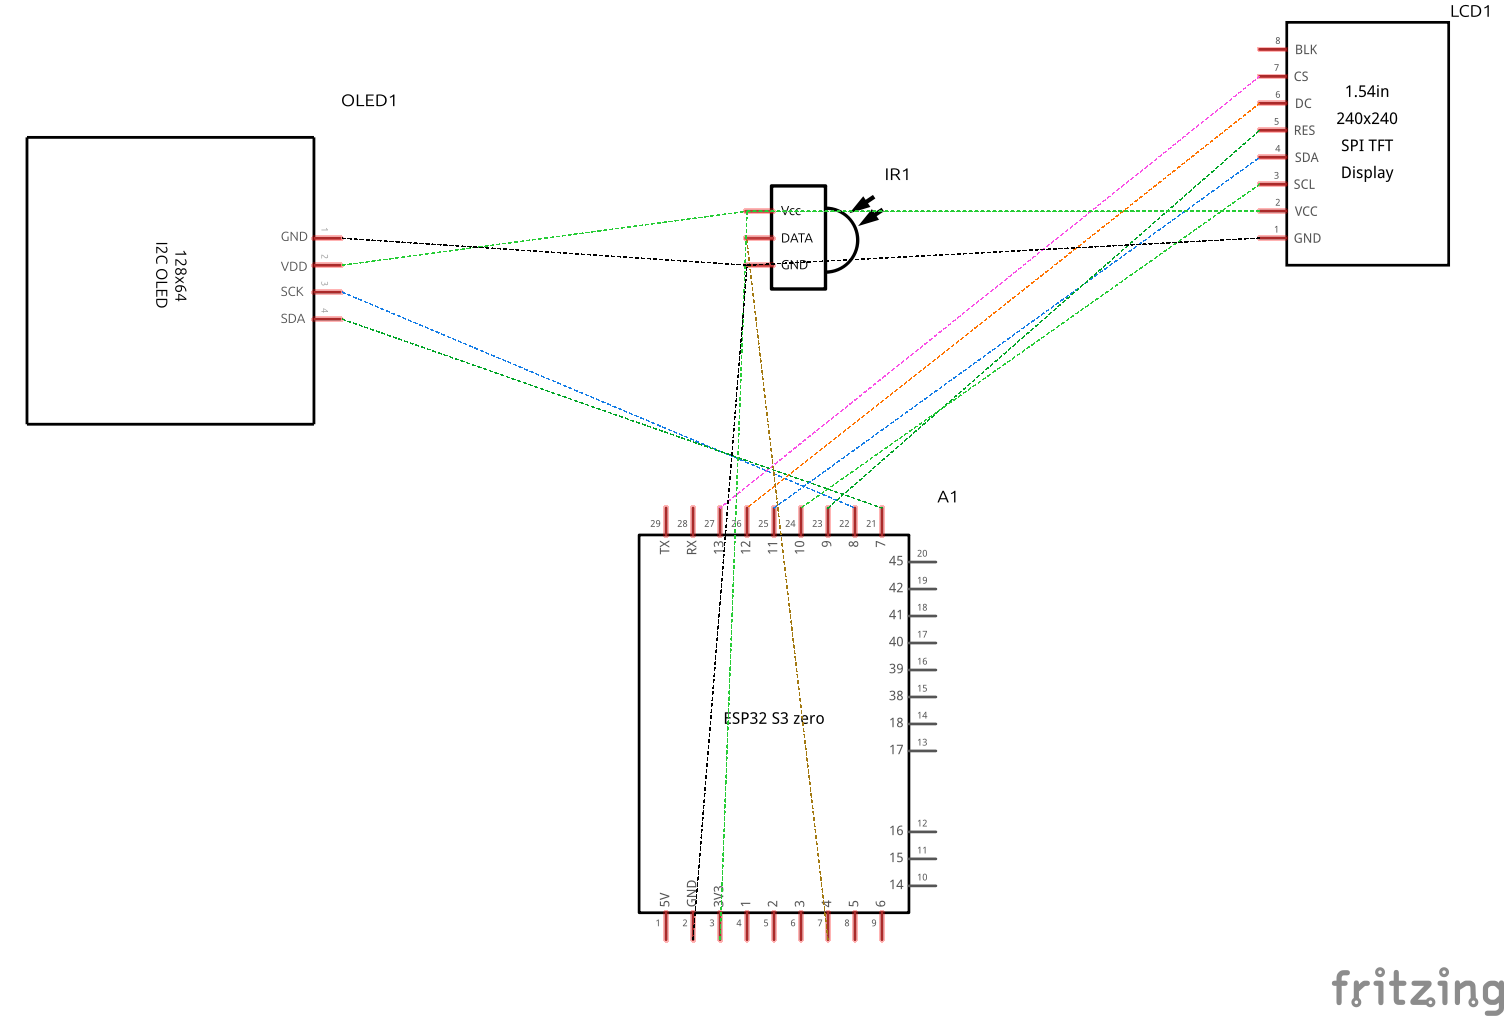
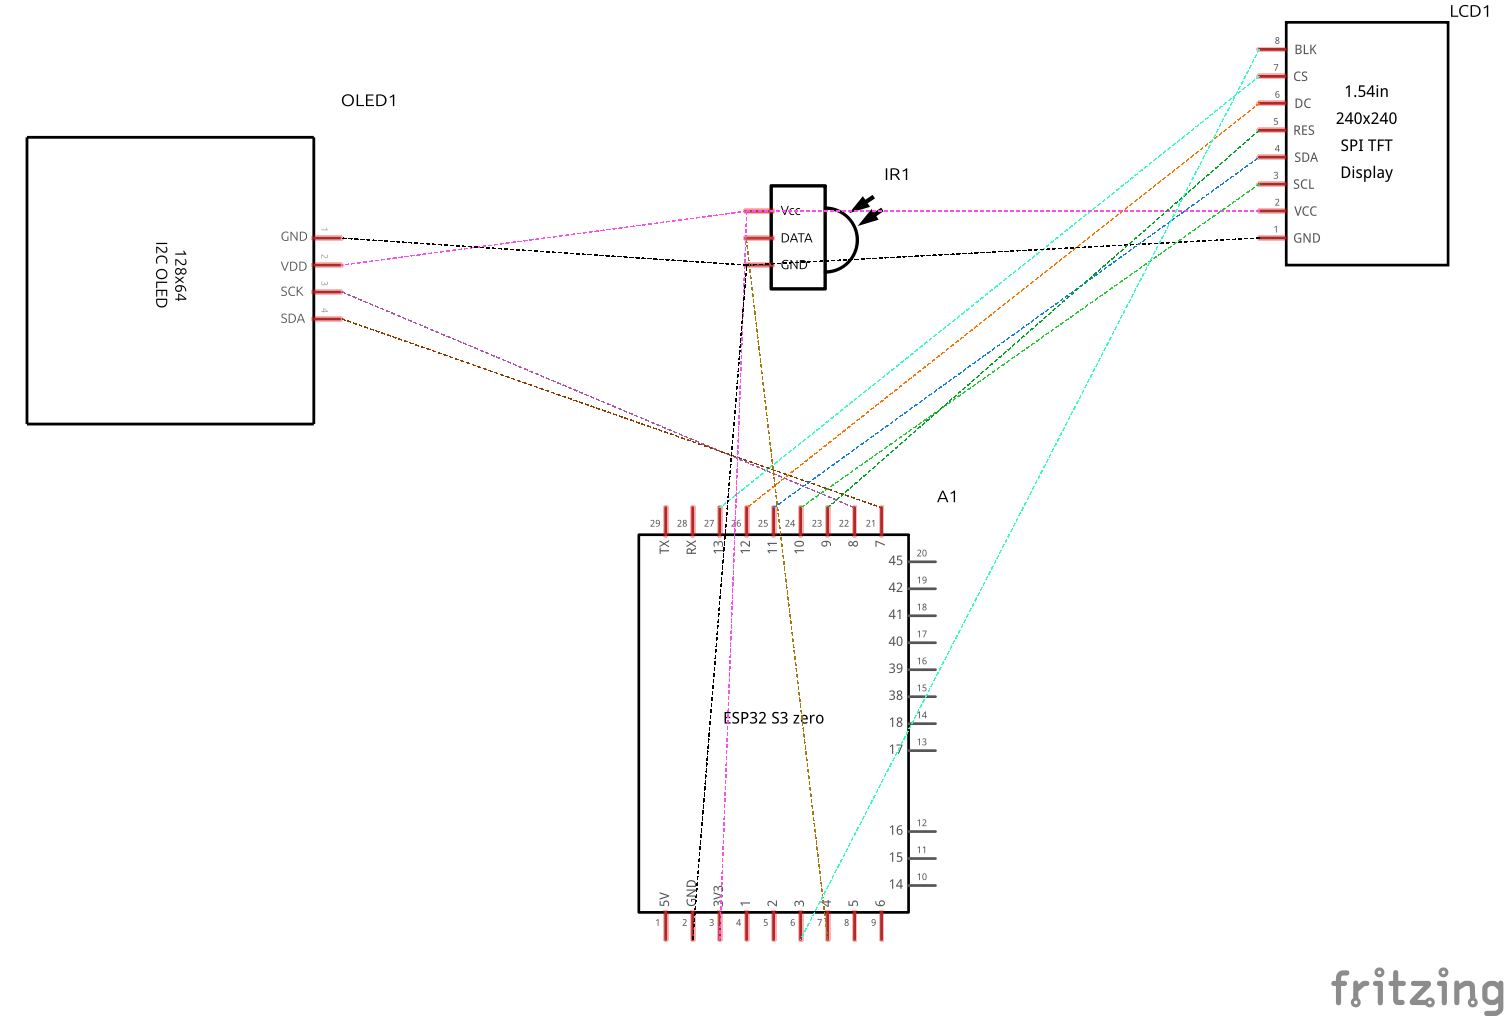
Vorbereitung Display Helligkeit steuern über Pin3

diff --git a/src/main.cpp b/src/main.cpp
@@ -18,6 +18,7 @@
 #include <IRremote.h>
 #include <PubSubClient.h>
 #include "time.h"
+#include <analogWrite.h>
 
 // TFT_eSPI settings
 SPIClass hspi = SPIClass(HSPI);
@@ -27,6 +28,7 @@ int currentLine = 0; // Aktuelle Zeilenposition
 int maxLines;        // Maximale Anzahl Zeilen pro Bildschirmhöhe
 const int maxCharsPerLine = 38;
 TFT_eSPI tft = TFT_eSPI(); // Invoke library
+int tftLight = 255; // Hintergrundbeleuchtung (0-255)
 
 #define MON_RX 5 // RX pin
 #define MON_TX 6 // TX pin
@@ -1983,8 +1985,9 @@ void setup()
   Serial.begin(115200); // Initialize USB console
   delay(5000);          // allow USB to initialize
   
-  pinMode(LED_BUILTIN, OUTPUT); // Built-in LED pin
-  analogWrite(LED_BUILTIN, 255);  // Turn off built-in LED
+  // Helligkeit des TFT-Backlights
+  pinMode(3, OUTPUT); // Built-in LED pin
+  analogWrite(3, tftLight);  // Turn off built-in LED
 
   // Initialize OLED display
   Wire.begin(7, 8);             // SDA, SCL pins for I2C
